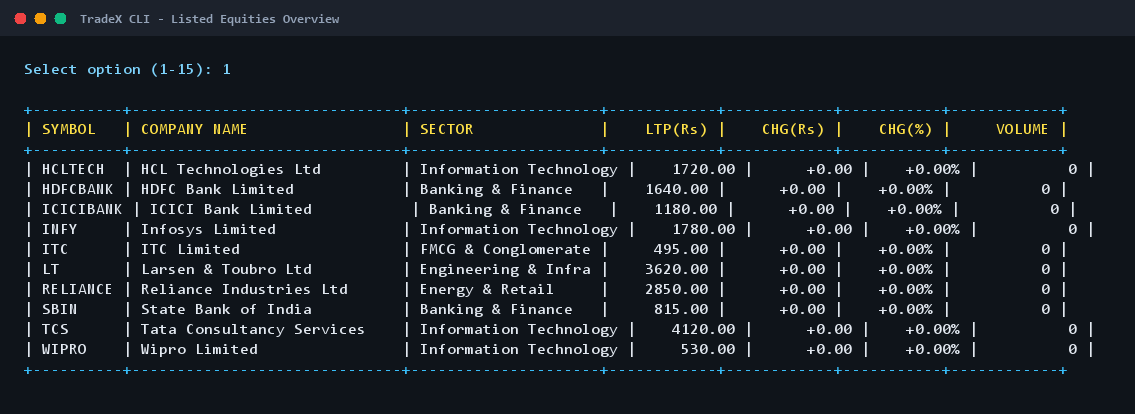
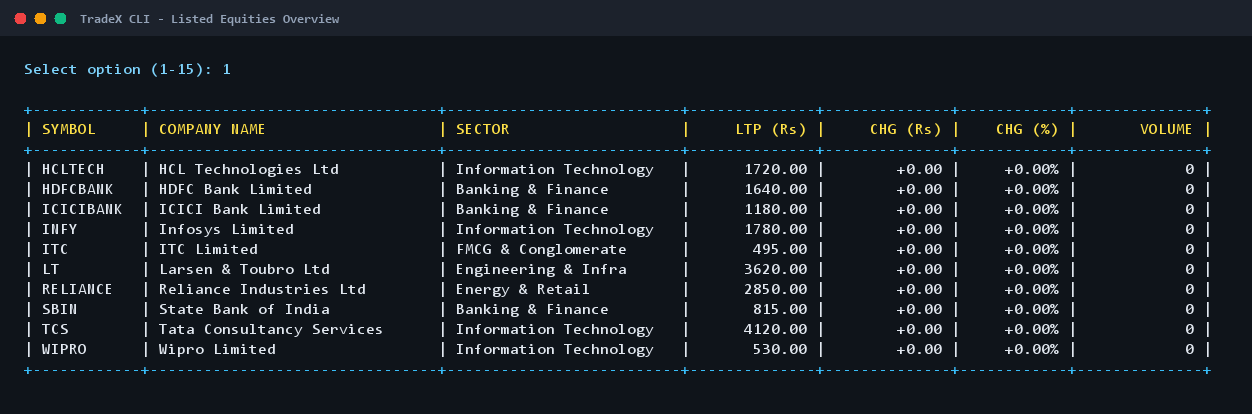
fix(ui): resolve column width misalignment in Market Overview and Order Book depth tables

diff --git a/src/tradex/app/Main.java b/src/tradex/app/Main.java
@@ -293,15 +293,17 @@ public class Main {
     // ================= 1. Market Overview =================
     private void displayMarketOverview() {
         List<Stock> stocks = marketService.getAllStocks();
-        System.out.println("+----------+------------------------------+---------------------+------------+------------+-----------+------------+");
-        System.out.println("| SYMBOL   | COMPANY NAME                 | SECTOR              |    LTP(Rs) |    CHG(Rs) |    CHG(%) |     VOLUME |");
-        System.out.println("+----------+------------------------------+---------------------+------------+------------+-----------+------------+");
+        String div = "+------------+--------------------------------+--------------------------+--------------+--------------+------------+--------------+";
+        System.out.println(div);
+        System.out.printf("| %-10s | %-30s | %-24s | %12s | %12s | %10s | %12s |%n",
+                "SYMBOL", "COMPANY NAME", "SECTOR", "LTP (Rs)", "CHG (Rs)", "CHG (%)", "VOLUME");
+        System.out.println(div);
         for (Stock s : stocks) {
-            System.out.printf("| %-8s | %-28s | %-19s | %10.2f | %+10.2f | %+8.2f%% | %10d |%n",
+            System.out.printf("| %-10s | %-30s | %-24s | %12.2f | %+12.2f | %+9.2f%% | %12d |%n",
                     s.getSymbol(), s.getName(), s.getSector(),
                     s.getCurrentPrice(), s.getChangeAmount(), s.getChangePercentage(), s.getVolume());
         }
-        System.out.println("+----------+------------------------------+---------------------+------------+------------+-----------+------------+");
+        System.out.println(div);
     }
 
     // ================= 2. Stock Quote Details =================
@@ -348,36 +350,50 @@ public class Main {
         List<OrderBook.LevelDepth> asks = book.getAsksDepth(5);
         List<OrderBook.LevelDepth> bids = book.getBidsDepth(5);
 
-        System.out.println("\n+------------------------------------------------------------------------------+");
-        System.out.printf("|                         %-10s ORDER BOOK & DEPTH                            |%n", symbol);
-        System.out.printf("| LTP: Rs. %-15.2f | Spread: Rs. %-14.2f | Status: %-14s |%n",
+        String div65 = "+---------------------------------------------------------------+";
+        String tableDiv = "+--------+------------------+------------------+----------------+";
+
+        System.out.println("\n" + div65);
+        System.out.printf("| %-61s |%n", center(symbol + " ORDER BOOK & DEPTH", 61));
+        System.out.printf("| LTP: Rs. %-11.2f | Spread: Rs. %-9.2f | Status: %-13s |%n",
                 stock.getCurrentPrice(), book.getSpread(), stock.getStatus());
-        System.out.println("+------------------------------------------------------------------------------+");
-        System.out.println("| ASKS (Sellers)                                                               |");
-        System.out.println("|           Price (Rs)       |            Quantity |                    Orders |");
-        System.out.println("| -------------------------- | ------------------- | ------------------------- |");
+        System.out.println(div65);
+        System.out.printf("| %-61s |%n", "ASKS (Sellers)");
+        System.out.println(tableDiv);
+        System.out.printf("| %-6s | %16s | %16s | %14s |%n", "LEVEL", "PRICE (Rs)", "QUANTITY", "ORDERS");
+        System.out.println(tableDiv);
         if (asks.isEmpty()) {
-            System.out.println("|           [No resting sell orders currently available]                       |");
+            System.out.printf("| %-61s |%n", center("[No resting sell orders]", 61));
         } else {
             for (int i = asks.size() - 1; i >= 0; i--) {
                 OrderBook.LevelDepth lvl = asks.get(i);
-                System.out.printf("|              %10.2f        |          %10d |                %10d |%n",
-                        lvl.price, lvl.totalQuantity, lvl.orderCount);
+                System.out.printf("| %-6d | %16.2f | %16d | %14d |%n",
+                        (i + 1), lvl.price, lvl.totalQuantity, lvl.orderCount);
             }
         }
-        System.out.println("+------------------------------------------------------------------------------+");
-        System.out.println("| BIDS (Buyers)                                                                |");
-        System.out.println("|           Price (Rs)       |            Quantity |                    Orders |");
-        System.out.println("| -------------------------- | ------------------- | ------------------------- |");
+        System.out.println(tableDiv);
+        System.out.printf("| %-61s |%n", "BIDS (Buyers)");
+        System.out.println(tableDiv);
+        System.out.printf("| %-6s | %16s | %16s | %14s |%n", "LEVEL", "PRICE (Rs)", "QUANTITY", "ORDERS");
+        System.out.println(tableDiv);
         if (bids.isEmpty()) {
-            System.out.println("|           [No resting buy orders currently available]                        |");
+            System.out.printf("| %-61s |%n", center("[No resting buy orders]", 61));
         } else {
-            for (OrderBook.LevelDepth lvl : bids) {
-                System.out.printf("|              %10.2f        |          %10d |                %10d |%n",
-                        lvl.price, lvl.totalQuantity, lvl.orderCount);
+            for (int i = 0; i < bids.size(); i++) {
+                OrderBook.LevelDepth lvl = bids.get(i);
+                System.out.printf("| %-6d | %16.2f | %16d | %14d |%n",
+                        (i + 1), lvl.price, lvl.totalQuantity, lvl.orderCount);
             }
         }
-        System.out.println("+------------------------------------------------------------------------------+");
+        System.out.println(tableDiv);
+    }
+
+    private static String center(String s, int width) {
+        if (s == null) s = "";
+        if (s.length() >= width) return s.substring(0, width);
+        int pad = (width - s.length()) / 2;
+        int rem = width - s.length() - pad;
+        return " ".repeat(pad) + s + " ".repeat(rem);
     }
 
     // ================= 4. Place Order =================

diff --git a/src/tradex/util/TerminalScreenshotGenerator.java b/src/tradex/util/TerminalScreenshotGenerator.java
@@ -114,19 +114,21 @@ public class TerminalScreenshotGenerator {
         m1.add("Select option (1-15): _");
         renderTerminalImage("01-main-menu.png", "TradeX CLI - Terminal Dashboard", String.join("\n", m1));
 
-        // 2. Market View (Width: 116)
+        // 2. Market View (Width: 132)
         List<String> m2 = new ArrayList<>();
         m2.add("Select option (1-15): 1");
         m2.add("");
-        m2.add("+----------+------------------------------+---------------------+------------+------------+-----------+------------+");
-        m2.add("| SYMBOL   | COMPANY NAME                 | SECTOR              |    LTP(Rs) |    CHG(Rs) |    CHG(%) |     VOLUME |");
-        m2.add("+----------+------------------------------+---------------------+------------+------------+-----------+------------+");
+        String div132 = "+------------+--------------------------------+--------------------------+--------------+--------------+------------+--------------+";
+        m2.add(div132);
+        m2.add(String.format("| %-10s | %-30s | %-24s | %12s | %12s | %10s | %12s |",
+                "SYMBOL", "COMPANY NAME", "SECTOR", "LTP (Rs)", "CHG (Rs)", "CHG (%)", "VOLUME"));
+        m2.add(div132);
         for (Stock s : marketService.getAllStocks()) {
-            m2.add(String.format("| %-8s | %-28s | %-19s | %10.2f | %+10.2f | %+8.2f%% | %10d |",
+            m2.add(String.format("| %-10s | %-30s | %-24s | %12.2f | %+12.2f | %+9.2f%% | %12d |",
                     s.getSymbol(), s.getName(), s.getSector(),
                     s.getCurrentPrice(), s.getChangeAmount(), s.getChangePercentage(), s.getVolume()));
         }
-        m2.add("+----------+------------------------------+---------------------+------------+------------+-----------+------------+");
+        m2.add(div132);
         renderTerminalImage("02-market-view.png", "TradeX CLI - Listed Equities Overview", String.join("\n", m2));
 
         // 3. Order Placement (Width: 80)
@@ -149,32 +151,43 @@ public class TerminalScreenshotGenerator {
         m3.add("Available Cash Reserved: Rs. 71,125.00 | Remaining Available Cash: Rs. 886,103.63");
         renderTerminalImage("03-order-placement.png", "TradeX CLI - Order Placement & Risk Controls", String.join("\n", m3));
 
-        // 4. Order Book & Market Depth (Width: 80)
-        int w4 = 80;
+        // 4. Order Book & Market Depth (Width: 65)
         OrderBook relBook = exchange.getOrderBook("RELIANCE");
         List<String> m4 = new ArrayList<>();
         m4.add("Select option (1-15): 3");
         m4.add("Enter Stock Symbol: RELIANCE");
         m4.add("");
-        m4.add(divider(w4));
-        m4.add(boxLine(center("RELIANCE ORDER BOOK & DEPTH", w4 - 4), w4));
-        m4.add(boxLine(center(String.format("LTP: Rs. %.2f   |   Spread: Rs. %.2f   |   Status: OPEN", 2850.00, relBook.getSpread()), w4 - 4), w4));
-        m4.add(divider(w4));
-        m4.add(boxLine("ASKS (Sellers)", w4));
-        m4.add("| " + padLeft("Price (Rs)", 24) + " | " + padLeft("Quantity", 24) + " | " + padLeft("Orders", 24) + " |");
-        m4.add("| " + "-".repeat(24) + " | " + "-".repeat(24) + " | " + "-".repeat(24) + " |");
-        for (int i = relBook.getAsksDepth(5).size() - 1; i >= 0; i--) {
-            OrderBook.LevelDepth lvl = relBook.getAsksDepth(5).get(i);
-            m4.add(String.format("| %24.2f | %24d | %24d |", lvl.price, lvl.totalQuantity, lvl.orderCount));
+        String div65 = "+---------------------------------------------------------------+";
+        String tableDiv = "+--------+------------------+------------------+----------------+";
+        m4.add(div65);
+        m4.add("| " + center("RELIANCE ORDER BOOK & DEPTH", 61) + " |");
+        m4.add(String.format("| %-19s | %-20s | %-16s |",
+                String.format("LTP: Rs. %.2f", 2850.00),
+                String.format("Spread: Rs. %.2f", relBook.getSpread()),
+                "Status: OPEN"));
+        m4.add(div65);
+        m4.add(String.format("| %-61s |", "ASKS (Sellers)"));
+        m4.add(tableDiv);
+        m4.add(String.format("| %-6s | %16s | %16s | %14s |", "LEVEL", "PRICE (Rs)", "QUANTITY", "ORDERS"));
+        m4.add(tableDiv);
+        List<OrderBook.LevelDepth> asks = relBook.getAsksDepth(5);
+        for (int i = asks.size() - 1; i >= 0; i--) {
+            OrderBook.LevelDepth lvl = asks.get(i);
+            m4.add(String.format("| %-6d | %16.2f | %16d | %14d |",
+                    (i + 1), lvl.price, lvl.totalQuantity, lvl.orderCount));
         }
-        m4.add(divider(w4));
-        m4.add(boxLine("BIDS (Buyers)", w4));
-        m4.add("| " + padLeft("Price (Rs)", 24) + " | " + padLeft("Quantity", 24) + " | " + padLeft("Orders", 24) + " |");
-        m4.add("| " + "-".repeat(24) + " | " + "-".repeat(24) + " | " + "-".repeat(24) + " |");
-        for (OrderBook.LevelDepth lvl : relBook.getBidsDepth(5)) {
-            m4.add(String.format("| %24.2f | %24d | %24d |", lvl.price, lvl.totalQuantity, lvl.orderCount));
+        m4.add(tableDiv);
+        m4.add(String.format("| %-61s |", "BIDS (Buyers)"));
+        m4.add(tableDiv);
+        m4.add(String.format("| %-6s | %16s | %16s | %14s |", "LEVEL", "PRICE (Rs)", "QUANTITY", "ORDERS"));
+        m4.add(tableDiv);
+        List<OrderBook.LevelDepth> bids = relBook.getBidsDepth(5);
+        for (int i = 0; i < bids.size(); i++) {
+            OrderBook.LevelDepth lvl = bids.get(i);
+            m4.add(String.format("| %-6d | %16.2f | %16d | %14d |",
+                    (i + 1), lvl.price, lvl.totalQuantity, lvl.orderCount));
         }
-        m4.add(divider(w4));
+        m4.add(tableDiv);
         renderTerminalImage("04-order-book.png", "TradeX CLI - In-Memory Double Auction Order Book", String.join("\n", m4));
 
         // 5. Trade Execution (Width: 96)

diff --git a/README.md b/README.md
@@ -215,43 +215,45 @@ chmod +x build.sh run.sh test.sh
 ### 1. View Listed Stocks (Market Overview)
 Select Option `1` from the main menu:
 ```text
----------------------------------------------------------------------------------------------------------
-SYMBOL     NAME                         SECTOR             LTP (₹)    CHG (₹)    CHG (%)       VOLUME
----------------------------------------------------------------------------------------------------------
-HCLTECH    HCL Technologies Ltd         Information Tech   1720.00      +0.00     +0.00%            0
-HDFCBANK   HDFC Bank Limited            Banking & Financ   1640.00      +0.00     +0.00%            0
-ICICIBANK  ICICI Bank Limited           Banking & Financ   1180.00      +0.00     +0.00%            0
-INFY       Infosys Limited              Information Tech   1780.00      +0.00     +0.00%            0
-ITC        ITC Limited                  FMCG & Conglomer    495.00      +0.00     +0.00%            0
-LT         Larsen & Toubro Ltd          Engineering & In   3620.00      +0.00     +0.00%            0
-RELIANCE   Reliance Industries Ltd      Energy & Retail    2850.00      +0.00     +0.00%            0
-SBIN       State Bank of India          Banking & Financ    815.00      +0.00     +0.00%            0
-TCS        Tata Consultancy Services    Information Tech   4120.00      +0.00     +0.00%            0
-WIPRO      Wipro Limited                Information Tech    530.00      +0.00     +0.00%            0
----------------------------------------------------------------------------------------------------------
++------------+--------------------------------+--------------------------+--------------+--------------+------------+--------------+
+| SYMBOL     | COMPANY NAME                   | SECTOR                   |     LTP (Rs) |     CHG (Rs) |    CHG (%) |       VOLUME |
++------------+--------------------------------+--------------------------+--------------+--------------+------------+--------------+
+| HCLTECH    | HCL Technologies Ltd           | Information Technology   |      1720.00 |        +0.00 |     +0.00% |            0 |
+| HDFCBANK   | HDFC Bank Limited              | Banking & Finance        |      1640.00 |        +0.00 |     +0.00% |            0 |
+| ICICIBANK  | ICICI Bank Limited             | Banking & Finance        |      1180.00 |        +0.00 |     +0.00% |            0 |
+| INFY       | Infosys Limited                | Information Technology   |      1780.00 |        +0.00 |     +0.00% |            0 |
+| ITC        | ITC Limited                    | FMCG & Conglomerate      |       495.00 |        +0.00 |     +0.00% |            0 |
+| LT         | Larsen & Toubro Ltd            | Engineering & Infra      |      3620.00 |        +0.00 |     +0.00% |            0 |
+| RELIANCE   | Reliance Industries Ltd        | Energy & Retail          |      2850.00 |        +0.00 |     +0.00% |            0 |
+| SBIN       | State Bank of India            | Banking & Finance        |       815.00 |        +0.00 |     +0.00% |            0 |
+| TCS        | Tata Consultancy Services      | Information Technology   |      4120.00 |        +0.00 |     +0.00% |            0 |
+| WIPRO      | Wipro Limited                  | Information Technology   |       530.00 |        +0.00 |     +0.00% |            0 |
++------------+--------------------------------+--------------------------+--------------+--------------+------------+--------------+
 ```
 
 ### 2. View Order Book & Market Depth
 Select Option `3` and enter `RELIANCE`:
 ```text
-╔══════════════════════════════════════════════════════╗
-║              RELIANCE ORDER BOOK & DEPTH             ║
-║  LTP: ₹2850.00   | Spread: ₹10.00   | Status: OPEN   ║
-╠══════════════════════════════════════════════════════╣
-║ ASKS (Sellers)                                       ║
-║   Price (₹)      Quantity       Orders               ║
-║   ------------------------------------------------   ║
-║   ₹2860.00       120            1                    ║
-║   ₹2855.00       300            1                    ║
-║   ₹2850.00       180            1                    ║
-╠══════════════════════════════════════════════════════╣
-║ BIDS (Buyers)                                        ║
-║   Price (₹)      Quantity       Orders               ║
-║   ------------------------------------------------   ║
-║   ₹2840.00       250            1                    ║
-║   ₹2835.00       410            1                    ║
-║   ₹2830.00       175            1                    ║
-╚══════════════════════════════════════════════════════╝
++---------------------------------------------------------------+
+|                  RELIANCE ORDER BOOK & DEPTH                  |
+| LTP: Rs. 2850.00      | Spread: Rs. 10.00     | Status: OPEN   |
++---------------------------------------------------------------+
+| ASKS (Sellers)                                                |
++--------+------------------+------------------+----------------+
+| LEVEL  |       PRICE (Rs) |         QUANTITY |         ORDERS |
++--------+------------------+------------------+----------------+
+| 3      |          2860.00 |              120 |              1 |
+| 2      |          2855.00 |              300 |              1 |
+| 1      |          2850.00 |              180 |              1 |
++--------+------------------+------------------+----------------+
+| BIDS (Buyers)                                                 |
++--------+------------------+------------------+----------------+
+| LEVEL  |       PRICE (Rs) |         QUANTITY |         ORDERS |
++--------+------------------+------------------+----------------+
+| 1      |          2840.00 |              250 |              1 |
+| 2      |          2835.00 |              410 |              1 |
+| 3      |          2830.00 |              175 |              1 |
++--------+------------------+------------------+----------------+
 ```
 
 ---
